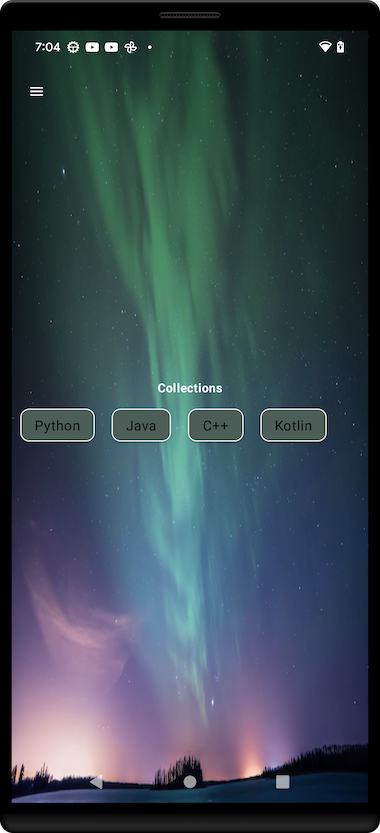
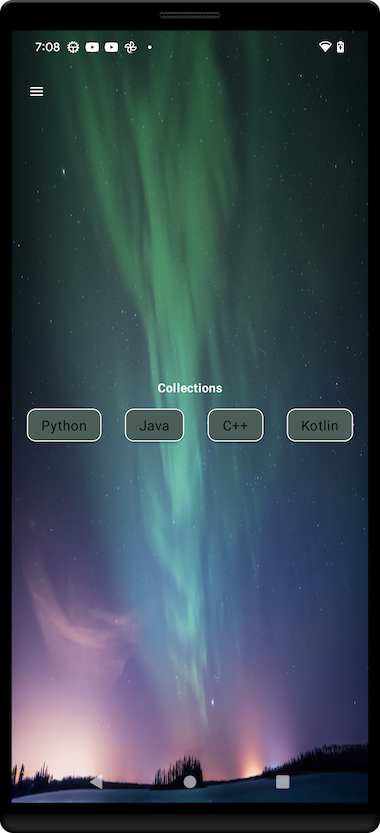
Improved CollectionsScreen list

Changed region(s): [[0.0289, 0.4682, 0.9553, 0.5306], [0.1447, 0.0312, 0.1737, 0.0624]]

diff --git a/unicorn-commerce/app/src/main/java/app/unicornapp/mobile/android/unicorn/ui/screens/CollectionsScreen.kt b/unicorn-commerce/app/src/main/java/app/unicornapp/mobile/android/unicorn/ui/screens/CollectionsScreen.kt
@@ -62,7 +62,10 @@ fun CollectionsScreen(
                 fontWeight = FontWeight.Bold
             )
 
-            Row(modifier = Modifier.fillMaxWidth()) {
+            Column(
+                modifier = Modifier.fillMaxWidth(),
+                verticalArrangement = Arrangement.SpaceEvenly
+            ) {
                 Categories.forEach() {
                     ItemCategory(category = it)
                 }
